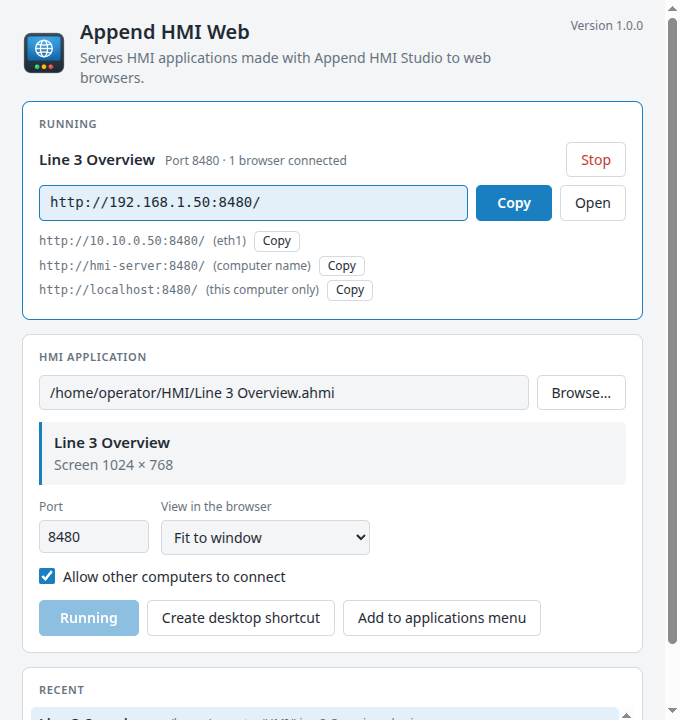
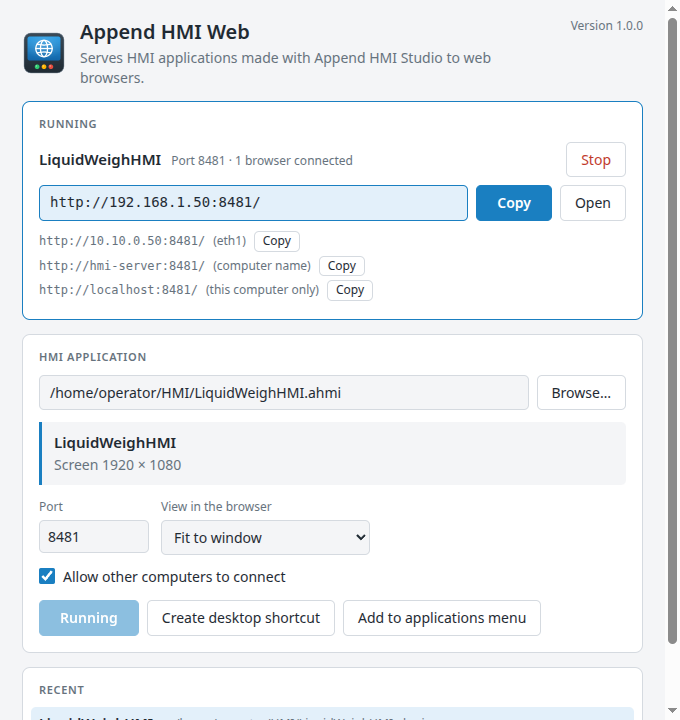
Screenshots show the LiquidWeighHMI example

diff --git a/README.md b/README.md
@@ -3,7 +3,7 @@ Append HMI Web
 
 **Append HMI Web** serves HMI applications (`.ahmi` projects) made with [Append HMI Studio](https://github.com/AppendAutomation/AppendHMIStudio) to web browsers. Start it on one PC; operators open the link on any computer, tablet or phone on the network, with live PLC data and no software to install on their side.
 
-![The Append HMI Web launcher with a running server](doc/images/launcher.png)
+![The Append HMI Web launcher serving the LiquidWeighHMI example](doc/images/launcher.png)
 
 - **From the command line:** `append-hmi-web project.ahmi` starts the project's web server.
   - `--port`, `--view` and `--local-only` set it up.
@@ -21,7 +21,7 @@ Append HMI Web
   - **Full screen.**
   - Each browser remembers its choice; the launcher sets the starting one.
 
-  ![A browser showing an HMI screen with the view menu open](doc/images/browser.png)
+  ![LiquidWeighHMI in a browser, with the view menu open](doc/images/browser.png)
 
 - **Everything the Studio's Run does:**
   - live PLC data through the bundled `hmi-comms` server (EtherNet/IP ControlLogix/CompactLogix, SLC 5/05 and MicroLogix, Modbus TCP, simulator);
